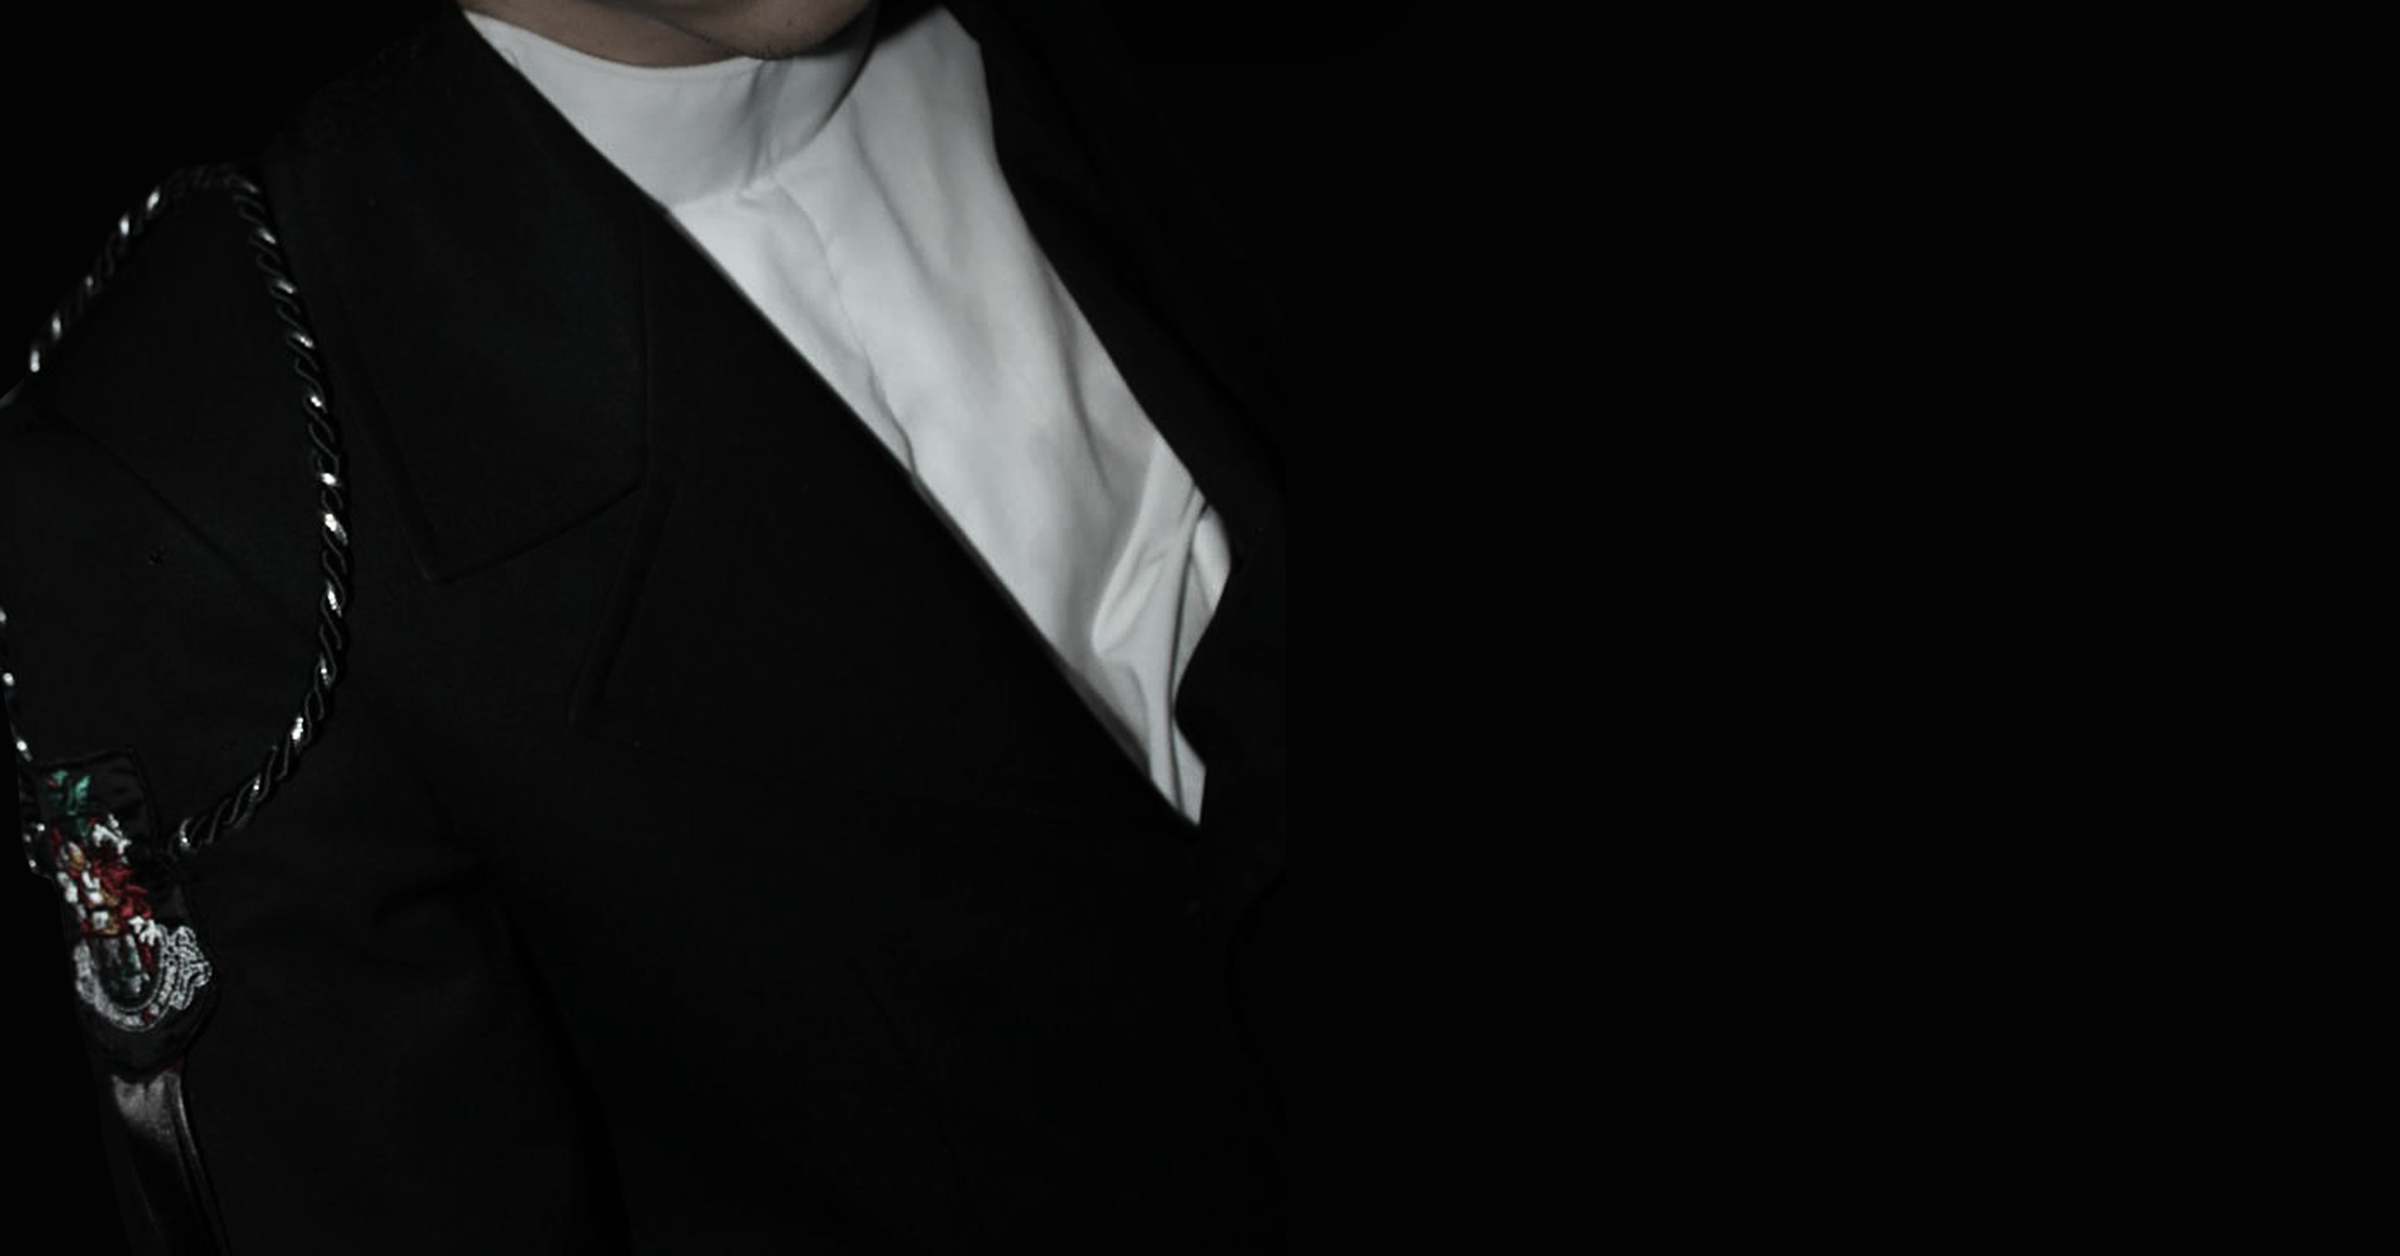
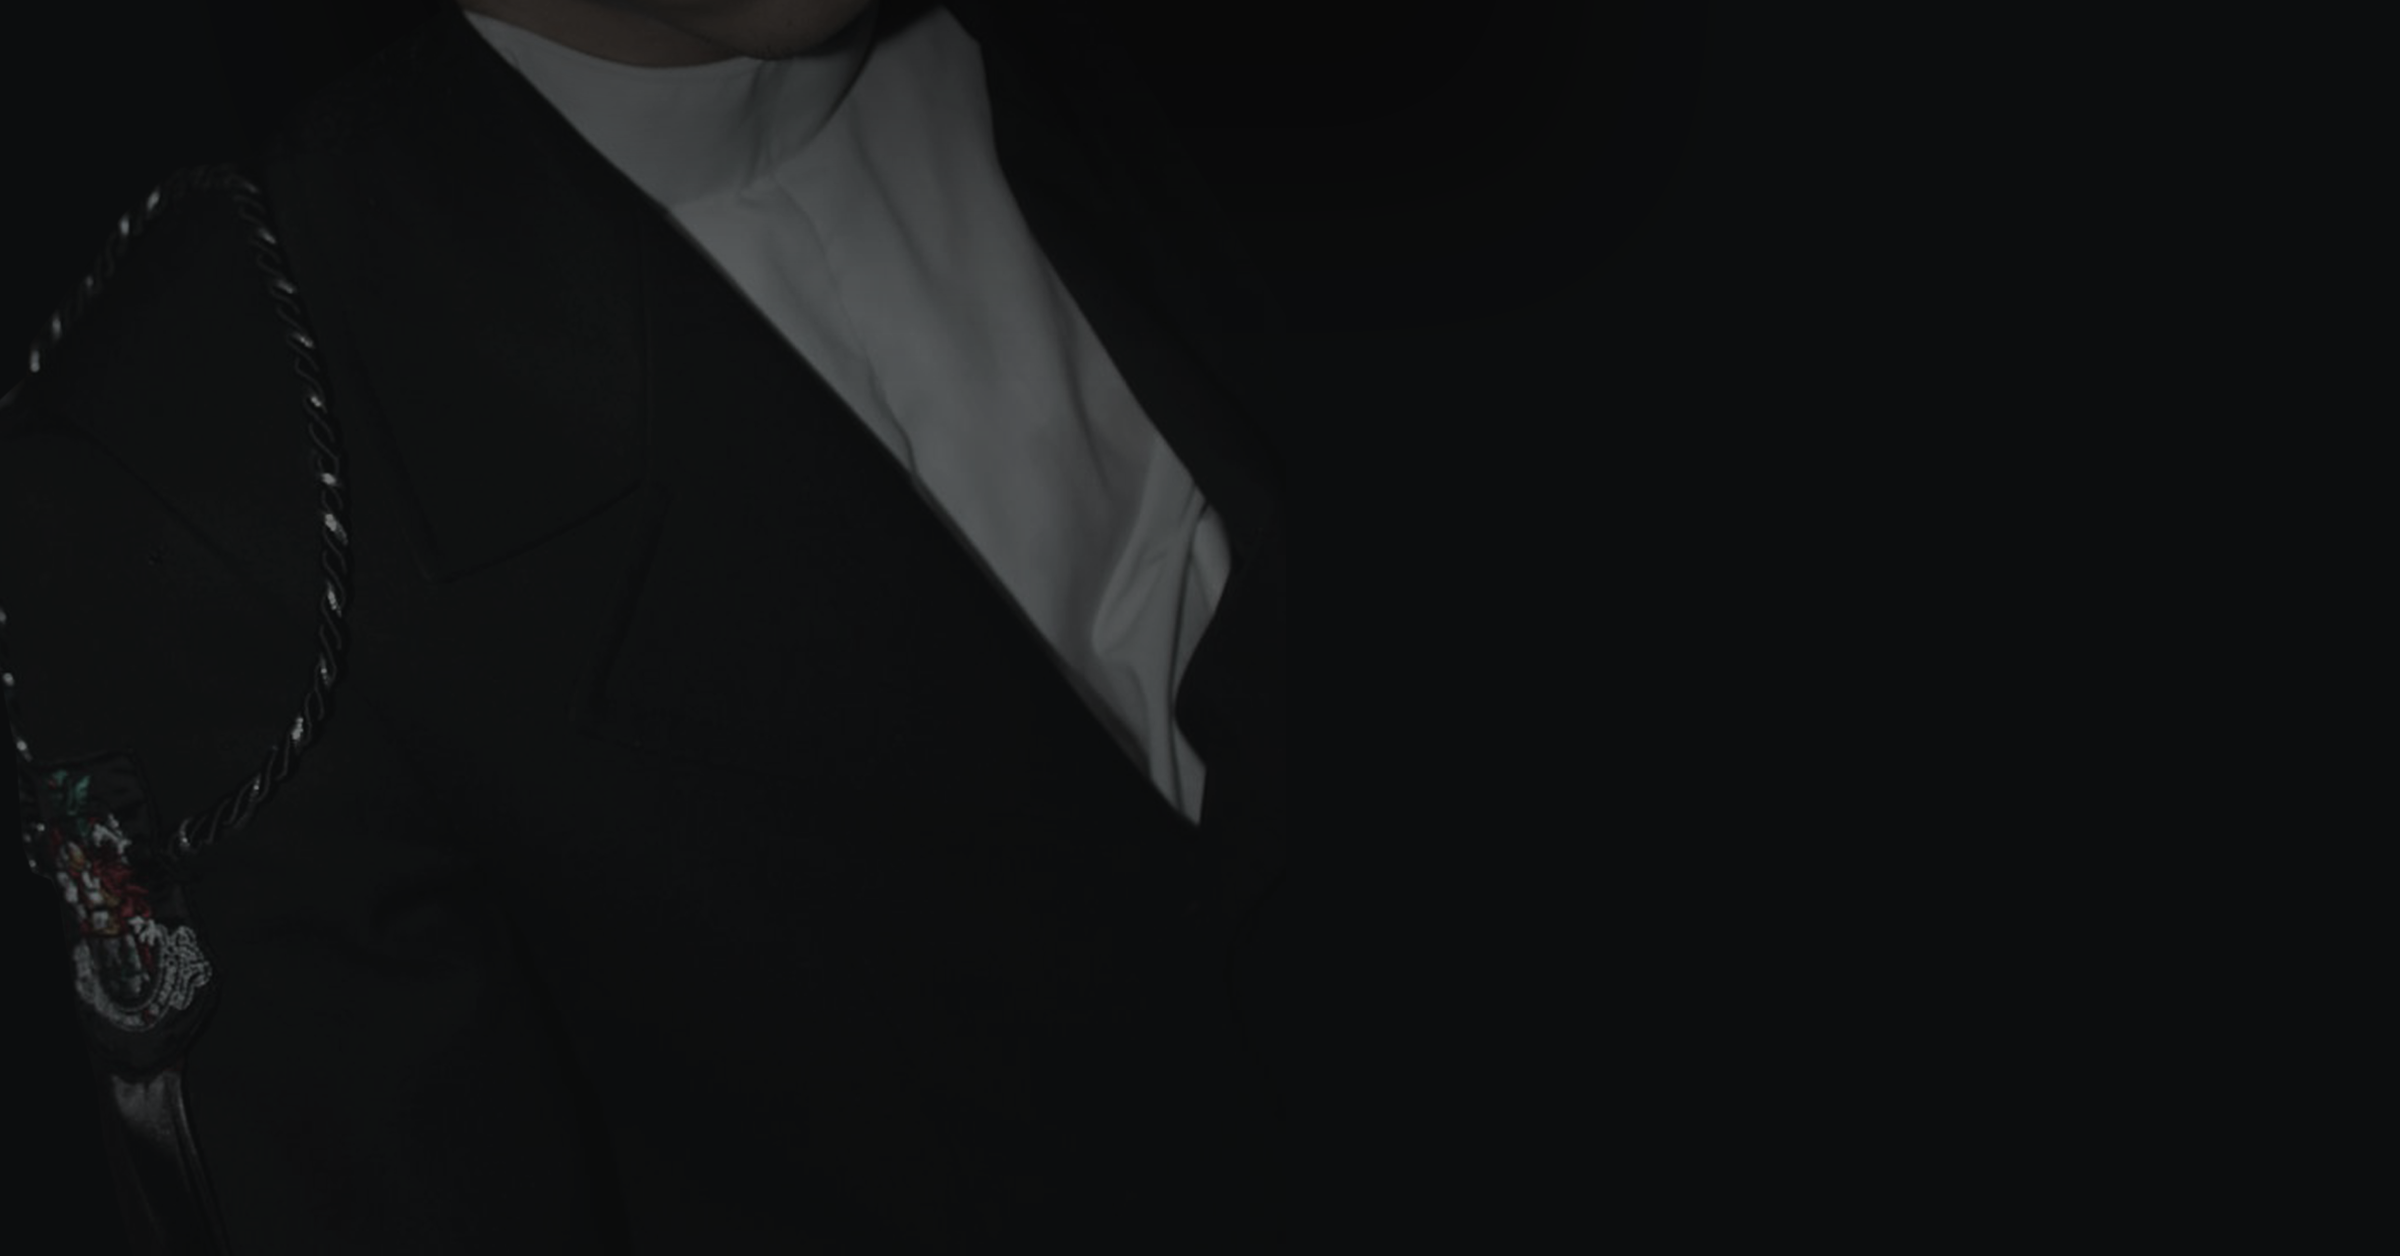
códigos de praxe; img cleanup

Changed region(s): [[0.1875, 0.0, 0.5312, 0.6521], [0.0, 0.6521, 0.0938, 0.8384], [0.0312, 0.8694, 0.0938, 0.9005]]

diff --git a/css/centuria.css b/css/centuria.css
@@ -167,7 +167,7 @@ img::-moz-selection {
 header.masthead {
 	text-align: center;
 	color: #fff;
-	background-image: url(../img/header-bg-centuria-2.png);
+	background-image: url(../img/header-bg-centuria.png);
 	background-repeat: no-repeat;
 	background-attachment: scroll;
 	background-position: center center;
